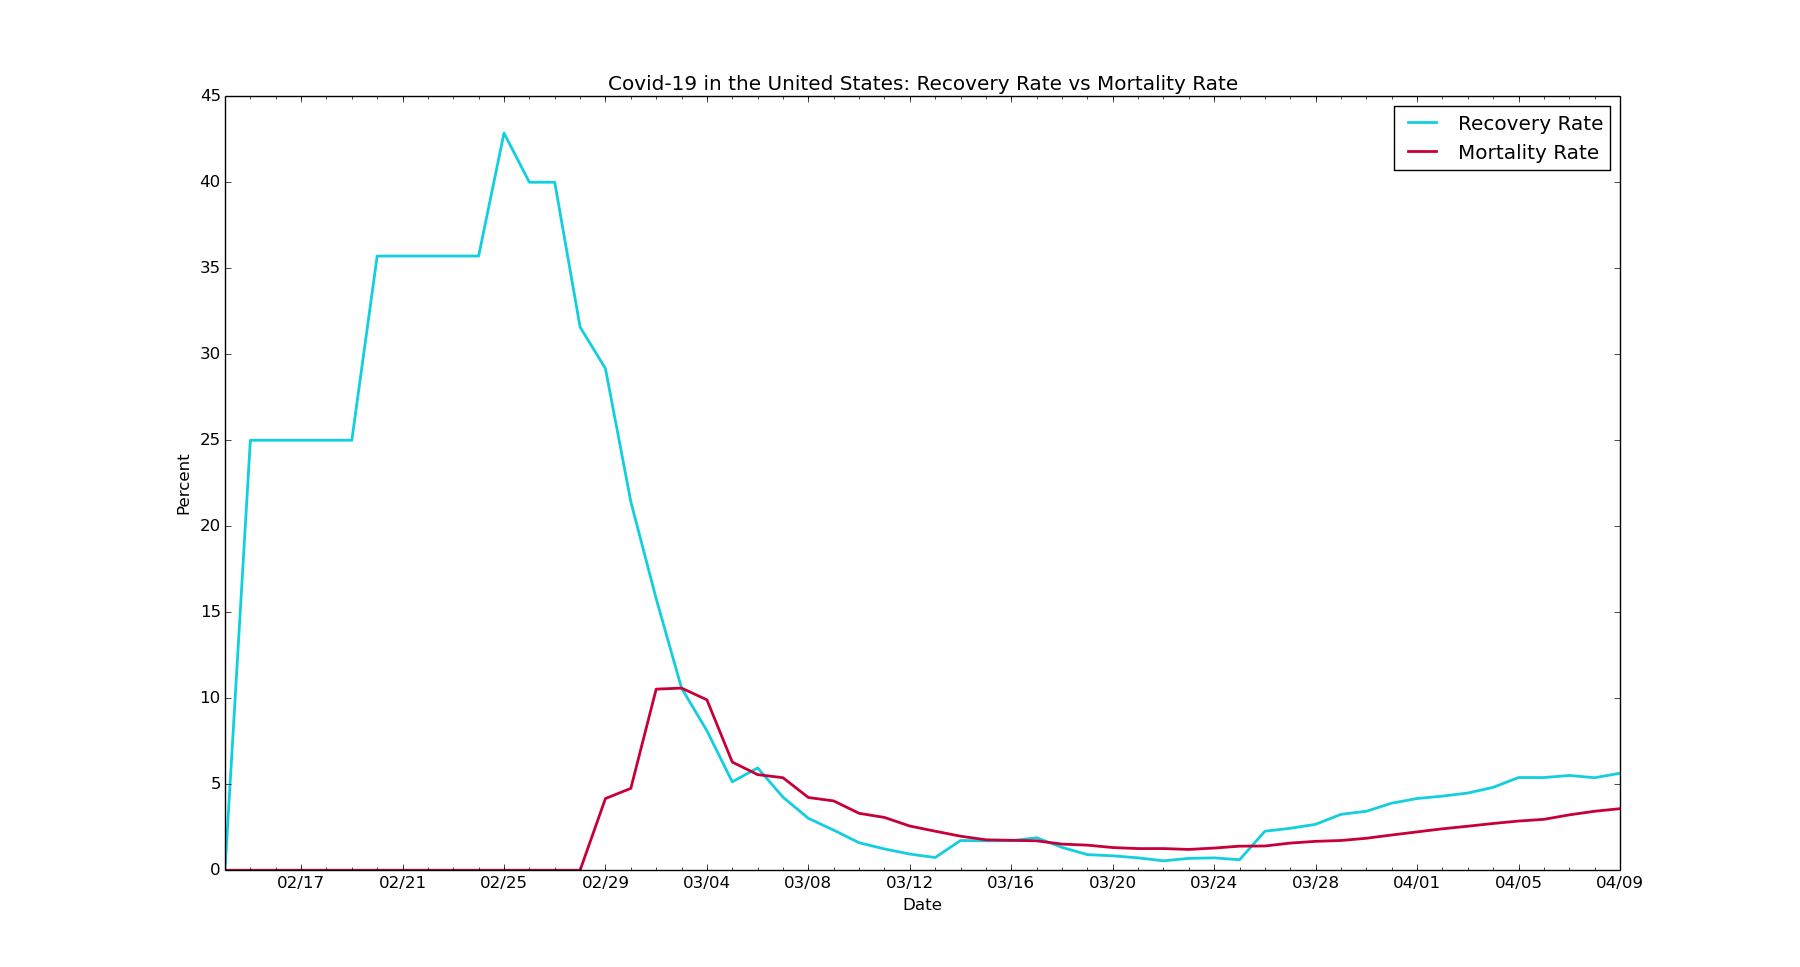
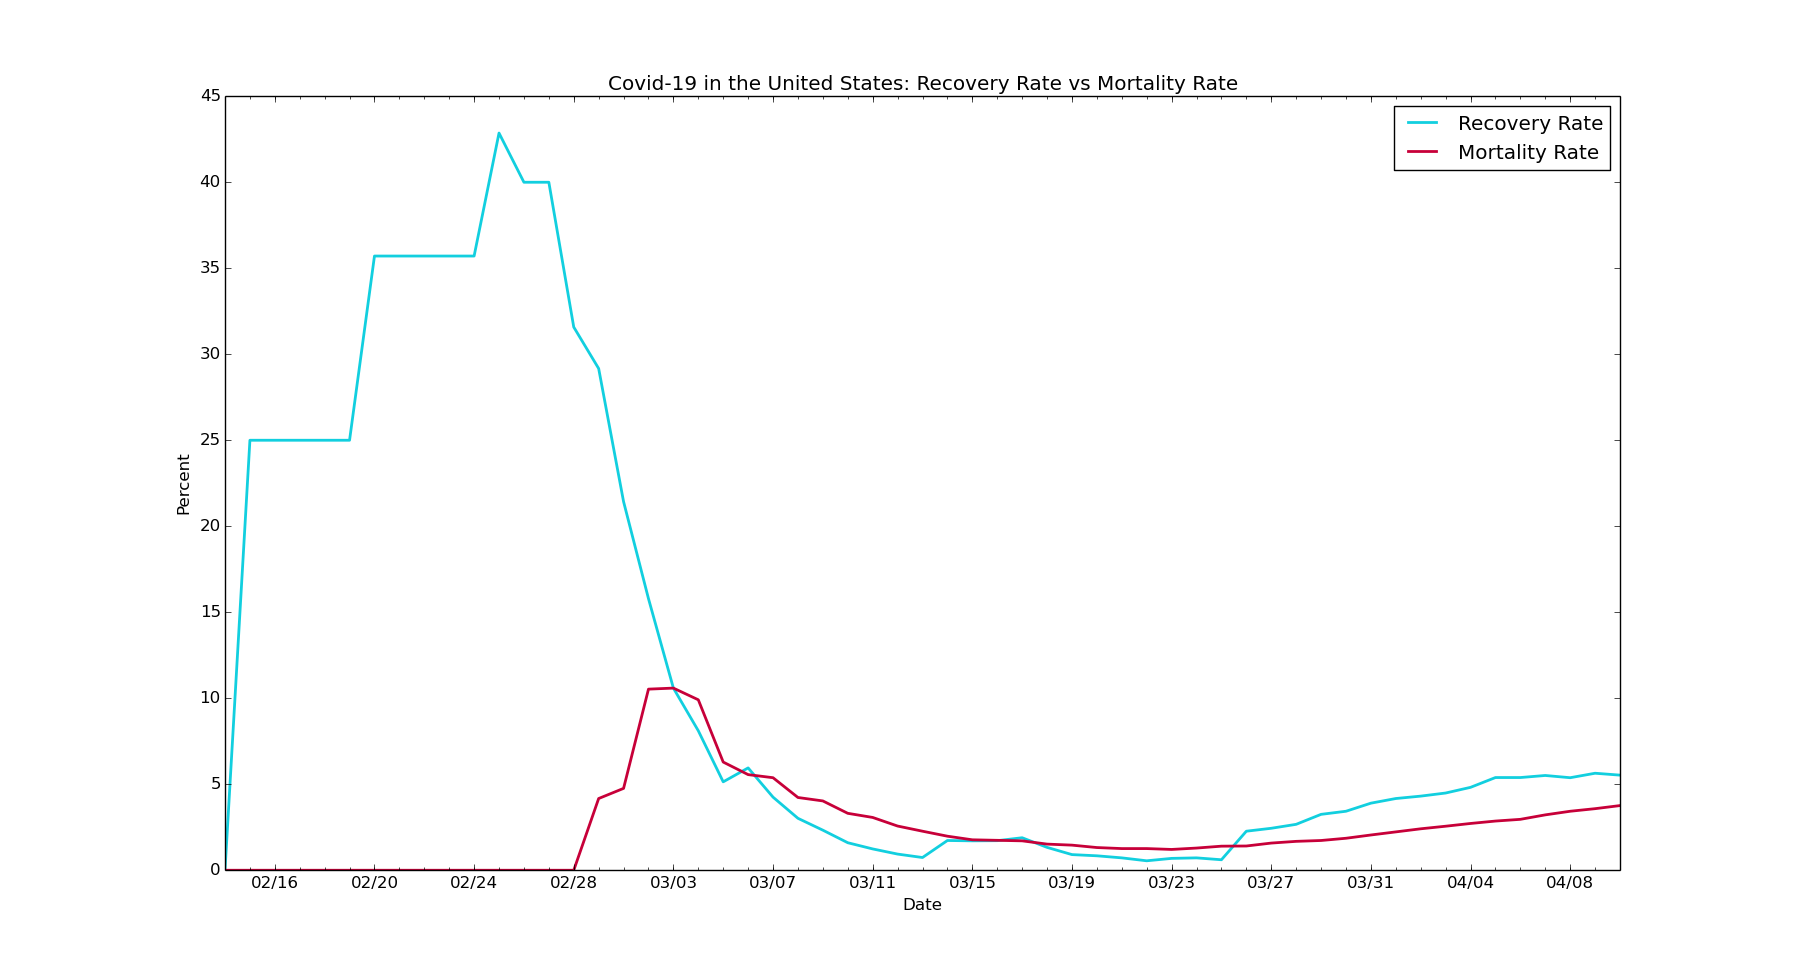
chore: Update data for USA for 4/10

diff --git a/usa/us-new.py b/usa/us-new.py
@@ -6,7 +6,7 @@ import matplotlib.dates as mdates
 import matplotlib.ticker as ticker
 from matplotlib.dates import MO, TU, WE, TH, FR, SA, SU
 
-dates = ['1/21/2020', '1/22/2020', '1/23/2020', '1/24/2020', '1/25/2020', '1/26/2020', '1/27/2020', '1/28/2020', '1/29/2020', '1/30/2020', '1/31/2020', '2/1/2020', '2/2/2020', '2/3/2020', '2/4/2020', '2/5/2020', '2/6/2020', '2/7/2020', '2/8/2020', '2/9/2020', '2/10/2020', '2/11/2020', '2/12/2020', '2/13/2020', '2/14/2020', '2/15/2020', '2/16/2020', '2/17/2020', '2/18/2020', '2/19/2020', '2/20/2020', '2/21/2020', '2/22/2020', '2/23/2020', '2/24/2020', '2/25/2020', '2/26/2020', '2/27/2020', '2/28/2020', '2/29/2020', '3/1/2020', '3/2/2020', '3/3/2020', '3/4/2020', '3/5/2020', '3/6/2020', '3/7/2020', '3/8/2020', '3/9/2020', '3/10/2020', '3/11/2020', '3/12/2020', '3/13/2020', '3/14/2020', '3/15/2020', '3/16/2020', '3/17/2020', '3/18/2020', '3/19/2020', '3/20/2020', '3/21/2020', '3/22/2020', '3/23/2020', '3/24/2020', '3/25/2020', '3/26/2020', '3/27/2020', '3/28/2020', '3/29/2020', '3/30/2020', '3/31/2020', '4/1/2020', '4/2/2020', '4/3/2020', '4/4/2020', '4/5/2020', '4/6/2020', '4/7/2020', '4/8/2020', '4/9/2020']
+dates = ['1/21/2020', '1/22/2020', '1/23/2020', '1/24/2020', '1/25/2020', '1/26/2020', '1/27/2020', '1/28/2020', '1/29/2020', '1/30/2020', '1/31/2020', '2/1/2020', '2/2/2020', '2/3/2020', '2/4/2020', '2/5/2020', '2/6/2020', '2/7/2020', '2/8/2020', '2/9/2020', '2/10/2020', '2/11/2020', '2/12/2020', '2/13/2020', '2/14/2020', '2/15/2020', '2/16/2020', '2/17/2020', '2/18/2020', '2/19/2020', '2/20/2020', '2/21/2020', '2/22/2020', '2/23/2020', '2/24/2020', '2/25/2020', '2/26/2020', '2/27/2020', '2/28/2020', '2/29/2020', '3/1/2020', '3/2/2020', '3/3/2020', '3/4/2020', '3/5/2020', '3/6/2020', '3/7/2020', '3/8/2020', '3/9/2020', '3/10/2020', '3/11/2020', '3/12/2020', '3/13/2020', '3/14/2020', '3/15/2020', '3/16/2020', '3/17/2020', '3/18/2020', '3/19/2020', '3/20/2020', '3/21/2020', '3/22/2020', '3/23/2020', '3/24/2020', '3/25/2020', '3/26/2020', '3/27/2020', '3/28/2020', '3/29/2020', '3/30/2020', '3/31/2020', '4/1/2020', '4/2/2020', '4/3/2020', '4/4/2020', '4/5/2020', '4/6/2020', '4/7/2020', '4/8/2020', '4/9/2020', '4/10/2020']
 
 # format dates
 x_values = [datetime.datetime.strptime(d, "%m/%d/%Y").date() for d in dates]
@@ -24,7 +24,7 @@ ax.xaxis.set_minor_locator(mdates.WeekdayLocator(byweekday=(MO, TU, WE, TH, FR, 
 ax.get_yaxis().set_major_formatter(ticker.FuncFormatter(lambda x, pos: format(int(x/1000))))
 
 # new cases by day
-new_cases = [1, 0, 0, 1, 1, 2, 0, 0, 0, 1, 1, 1, 3, 0, 0, 1, 0, 0, 0, 0, 0, 0, 0, 0, 0, 0, 0, 0, 0, 0, 2, 0, 0, 0, 0, 0, 1, 0, 4, 5, 18, 15, 28, 26, 64, 77, 101, 144, 148, 291, 269, 393, 565, 662, 676, 872, 1291, 2410, 3948, 5417, 6271, 8631, 10410, 9939, 12226, 17050, 19046, 20093, 19118, 20463, 25396, 26732, 28812, 32182, 34068, 25717, 29362, 30752, 32039, 34243]
+new_cases = [1, 0, 0, 1, 1, 2, 0, 0, 0, 1, 1, 1, 3, 0, 0, 1, 0, 0, 0, 0, 0, 0, 0, 0, 0, 0, 0, 0, 0, 0, 2, 0, 0, 0, 0, 0, 1, 0, 4, 5, 18, 15, 28, 26, 64, 77, 101, 144, 148, 291, 269, 393, 565, 662, 676, 872, 1291, 2410, 3948, 5417, 6271, 8631, 10410, 9939, 12226, 17050, 19046, 20093, 19118, 20463, 25396, 26732, 28812, 32182, 34068, 25717, 29362, 30752, 32039, 34243, 33578]
 
 # text labels
 plt.title('Covid-19 in the United States: New Confirmed Diagnoses')

diff --git a/usa/us-rates.py b/usa/us-rates.py
@@ -4,7 +4,7 @@ import matplotlib.dates as mdates
 import matplotlib.ticker as ticker
 from matplotlib.dates import MO, TU, WE, TH, FR, SA, SU
 
-dates = ['2/14/2020', '2/15/2020', '2/16/2020', '2/17/2020', '2/18/2020', '2/19/2020', '2/20/2020', '2/21/2020', '2/22/2020', '2/23/2020', '2/24/2020', '2/25/2020', '2/26/2020', '2/27/2020', '2/28/2020', '2/29/2020', '3/1/2020', '3/2/2020', '3/3/2020', '3/4/2020', '3/5/2020', '3/6/2020', '3/7/2020', '3/8/2020', '3/9/2020', '3/10/2020', '3/11/2020', '3/12/2020', '3/13/2020', '3/14/2020', '3/15/2020', '3/16/2020', '3/17/2020', '3/18/2020', '3/19/2020', '3/20/2020', '3/21/2020', '3/22/2020', '3/23/2020', '3/24/2020', '3/25/2020', '3/26/2020', '3/27/2020', '3/28/2020', '3/29/2020', '3/30/2020', '3/31/2020', '4/1/2020', '4/2/2020', '4/3/2020', '4/4/2020', '4/5/2020', '4/6/2020', '4/7/2020', '4/8/2020', '4/9/2020']
+dates = ['2/14/2020', '2/15/2020', '2/16/2020', '2/17/2020', '2/18/2020', '2/19/2020', '2/20/2020', '2/21/2020', '2/22/2020', '2/23/2020', '2/24/2020', '2/25/2020', '2/26/2020', '2/27/2020', '2/28/2020', '2/29/2020', '3/1/2020', '3/2/2020', '3/3/2020', '3/4/2020', '3/5/2020', '3/6/2020', '3/7/2020', '3/8/2020', '3/9/2020', '3/10/2020', '3/11/2020', '3/12/2020', '3/13/2020', '3/14/2020', '3/15/2020', '3/16/2020', '3/17/2020', '3/18/2020', '3/19/2020', '3/20/2020', '3/21/2020', '3/22/2020', '3/23/2020', '3/24/2020', '3/25/2020', '3/26/2020', '3/27/2020', '3/28/2020', '3/29/2020', '3/30/2020', '3/31/2020', '4/1/2020', '4/2/2020', '4/3/2020', '4/4/2020', '4/5/2020', '4/6/2020', '4/7/2020', '4/8/2020', '4/9/2020', '4/10/2020']
 
 # format dates
 x_values = [datetime.datetime.strptime(d, "%m/%d/%Y").date() for d in dates]
@@ -21,10 +21,10 @@ ax.xaxis.set_minor_locator(mdates.WeekdayLocator(byweekday=(MO, TU, WE, TH, FR, 
 ax.get_yaxis().set_major_formatter(ticker.FuncFormatter(lambda x, pos: format(int(x), ',')))
 
 # recovery rate
-recoveries = [0, 25, 25, 25, 25, 25, 35.71, 35.71, 35.71, 35.71, 35.71, 42.86, 40, 40, 31.58, 29.17, 21.43, 15.79, 10.59, 8.11, 5.14, 5.95, 4.25, 3.02, 2.33, 1.6, 1.24, .94, .74, 1.73, 1.71, 1.72, 1.89, 1.33, .91, .84, .72, .55, .69, .72, .61, 2.27, 2.44, 2.67, 3.25, 3.43, 3.9, 4.17, 4.31, 4.49, 4.82, 5.39, 5.39, 5.51, 5.38, 5.64]
+recoveries = [0, 25, 25, 25, 25, 25, 35.71, 35.71, 35.71, 35.71, 35.71, 42.86, 40, 40, 31.58, 29.17, 21.43, 15.79, 10.59, 8.11, 5.14, 5.95, 4.25, 3.02, 2.33, 1.6, 1.24, .94, .74, 1.73, 1.71, 1.72, 1.89, 1.33, .91, .84, .72, .55, .69, .72, .61, 2.27, 2.44, 2.67, 3.25, 3.43, 3.9, 4.17, 4.31, 4.49, 4.82, 5.39, 5.39, 5.51, 5.38, 5.64, 5.53]
 
 # mortality rate
-deaths = [0, 0, 0, 0, 0, 0, 0, 0, 0, 0, 0, 0, 0, 0, 0, 4.17, 4.76, 10.53, 10.59, 9.91, 6.29, 5.56, 5.38, 4.23, 4.03, 3.31, 3.07, 2.57, 2.27, 1.98, 1.77, 1.74, 1.71, 1.52, 1.46, 1.32, 1.26, 1.26, 1.21, 1.29, 1.4, 1.41, 1.58, 1.68, 1.73, 1.86, 2.05, 2.23, 2.41, 2.56, 2.72, 2.86, 2.96, 3.22, 3.43, 3.58]
+deaths = [0, 0, 0, 0, 0, 0, 0, 0, 0, 0, 0, 0, 0, 0, 0, 4.17, 4.76, 10.53, 10.59, 9.91, 6.29, 5.56, 5.38, 4.23, 4.03, 3.31, 3.07, 2.57, 2.27, 1.98, 1.77, 1.74, 1.71, 1.52, 1.46, 1.32, 1.26, 1.26, 1.21, 1.29, 1.4, 1.41, 1.58, 1.68, 1.73, 1.86, 2.05, 2.23, 2.41, 2.56, 2.72, 2.86, 2.96, 3.22, 3.43, 3.58, 3.76]
 
 # create the graph
 plt.plot(x_values, recoveries, color='#12cfdf', linewidth=2)
